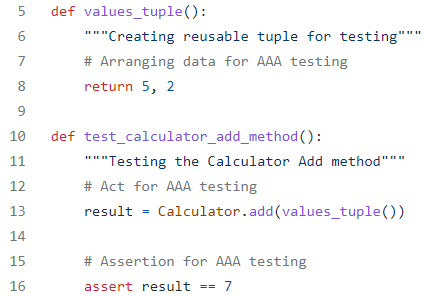
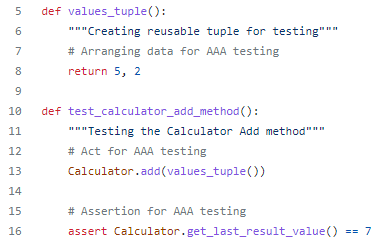
Made updates for pictures where the code had changed

diff --git a/app/simple_pages/templates/solid.html b/app/simple_pages/templates/solid.html
@@ -40,7 +40,10 @@
                 <p>
                     The Open-Closed Principle (OCP) states that a function should be open for extension but closed for modification.<br><br>
                     Once a function is finished, you shouldn’t need to go back and change it for any reason. You can modify how it works by adding to it externally but the function itself shouldn’t need to be changed.<br><br>
-                    An example of OCP being applied in our calculator program can be found in the <code>divide()</code> method our <a href="https://github.com/tlr24/IS601-docker-flask/blob/master/calculator/operations/__init__.py">Division operation class</a>.<br><br><br>
+                    An example of OCP being applied in our calculator program can be found in the <code>divide()</code> method our <a href="https://github.com/tlr24/IS601-docker-flask/blob/master/calculator/operations/__init__.py">Division operation class</a>:<br><br>
+                    <img src="{{ url_for('static', filename='images/divide_method.png') }}"
+                     class="w-30" width="40%"
+                     alt="divide_method"><br><br>
                     By OCP, a method must complete do whatever it needs to do to accomplish its single responsibility.<br><br>
                     Therefore, the <code>divide()</code> needs to not only do the divide but also have to handle the exception or prevent it when dividing by 0.<br><br>
                     While SRP says a method must do one thing, OCP says it must be done to completion including any error handlers that would be needed.<br><br>
@@ -96,7 +99,7 @@
                 <p>
                     The Dependency Inversion Principle states that classes should depend on abstract classes, not concrete ones.<br><br>
                     This helps decouple classes and allow them to call each other in a way that allows extensions rather than hardcoded dependencies.<br><br><br>
-                    An example of this in our calculator program is with the Calculation class and its Addition, Subtraction, Multiplication, and Division subclasses in <a href="https://github.com/tlr24/IS601-docker-flask/blob/master/calculator/calculations/__init__.py">calculations/__init__.py</a>.<br><br>
+                    An example of this in our calculator program is with the Calculation class and its Addition, Subtraction, Multiplication, and Division subclasses found in <a href="https://github.com/tlr24/IS601-docker-flask/blob/master/calculator/calculations/__init__.py">calculations/__init__.py</a>.<br><br>
                     The Calculation class acts as an abstract base class that is not coupled with its operation subclasses. In other words, each Calculation does not <i>have</i> to be an addition class (or any other operation).<br><br>
                     We can call the operation subclasses in a way that extend the Calculation class, depending on the abstract parent class rather than a concrete one.<br><br>
                 </p><br><br>
@@ -159,7 +162,7 @@
                     We send commands to the calculator history in <a href="https://github.com/tlr24/IS601-docker-flask/blob/master/calculator/history/__init__.py">history/__init__.py</a> to execute the specific method for the specific operation we call on.<br><br>
                     <img src="{{ url_for('static', filename='images/command_pattern_history.png') }}"
                         class="w-30" width="70%"
-                        alt="command_pattern_history.png"><br><br>
+                        alt="command_pattern_history"><br><br>
                     Each time we call one of these methods, it goes through the command chain of following through with the specific operation we called for.<br><br>
                 </p>
                 <h5><b>Decorators</b></h5><br>

diff --git a/app/simple_pages/templates/aaa.html b/app/simple_pages/templates/aaa.html
@@ -114,11 +114,9 @@
                 The <b>Act</b> stage is where we call the function to be tested. This is the function or method
                 call of the unit of code we are testing. The action is called so we can target whether it is
                 behaving correctly or not in the next step. <br><br>
-                In our example, we would be calling the <code>add()</code> function that we are testing like
+                In our example, we would be calling the <code>add()</code> function that we are testing using our arranged values like
                 this:<br><br>
-                <code>result = Calculator.add(values_tuple)</code><br><br>
-                We store our result of the action into a result variable to check if it's what we expect in the next
-                stage.
+                <code>Calculator.add(values_tuple())</code><br><br>
                 <br><br><br>
             </div>
             <div class="col">
@@ -144,7 +142,7 @@
                 In our example, we would call the following <b>assert</b> statement to make sure that the last
                 calculation result value is 7 as is expected of adding the numbers we fed the function in the arrange
                 stage:<br><br>
-                <code>assert result == 7</code> <br><br><br>
+                <code>assert Calculator.get_last_result_value() == 7</code> <br><br><br>
 
             </div>
             <div class="col">
